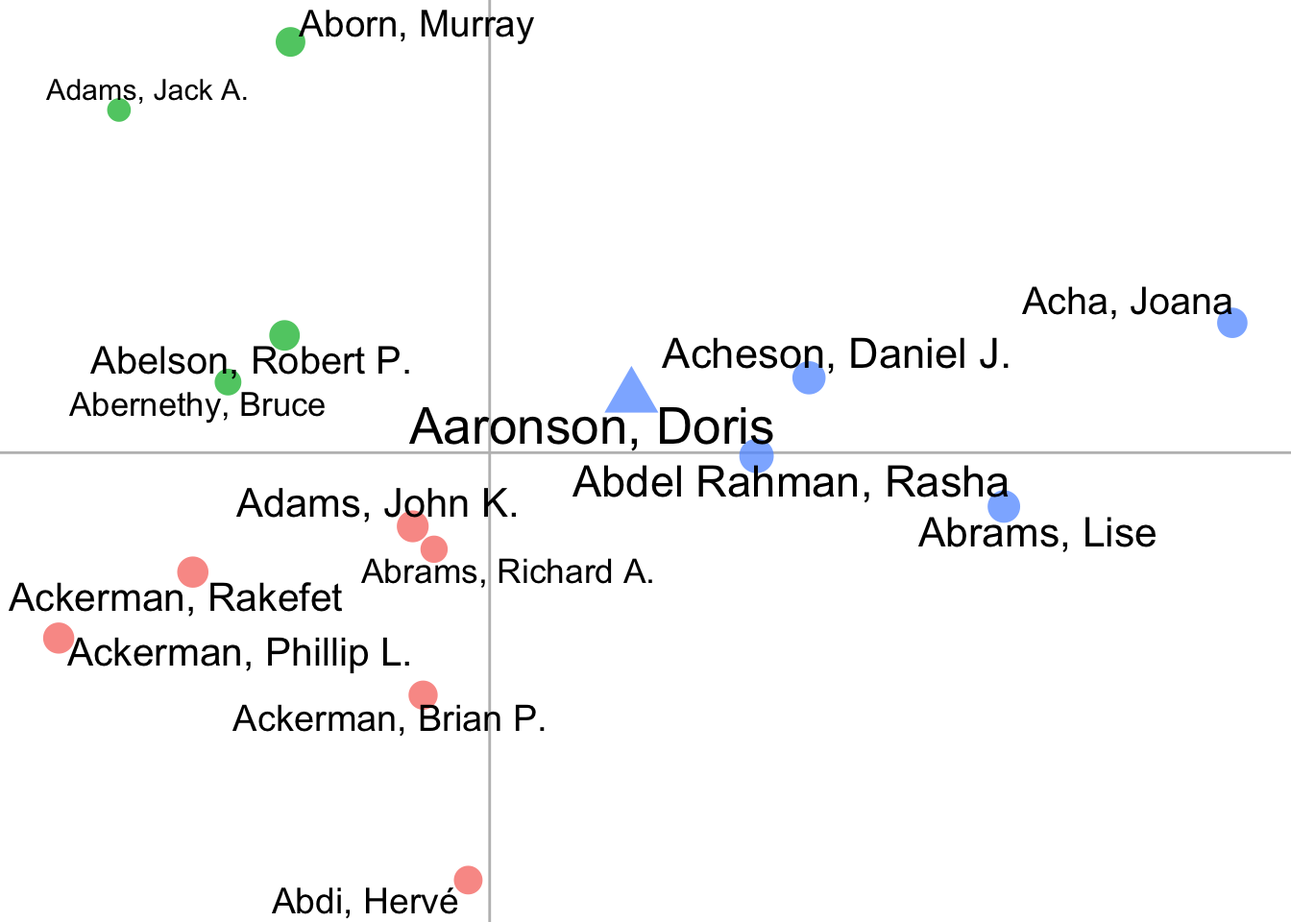
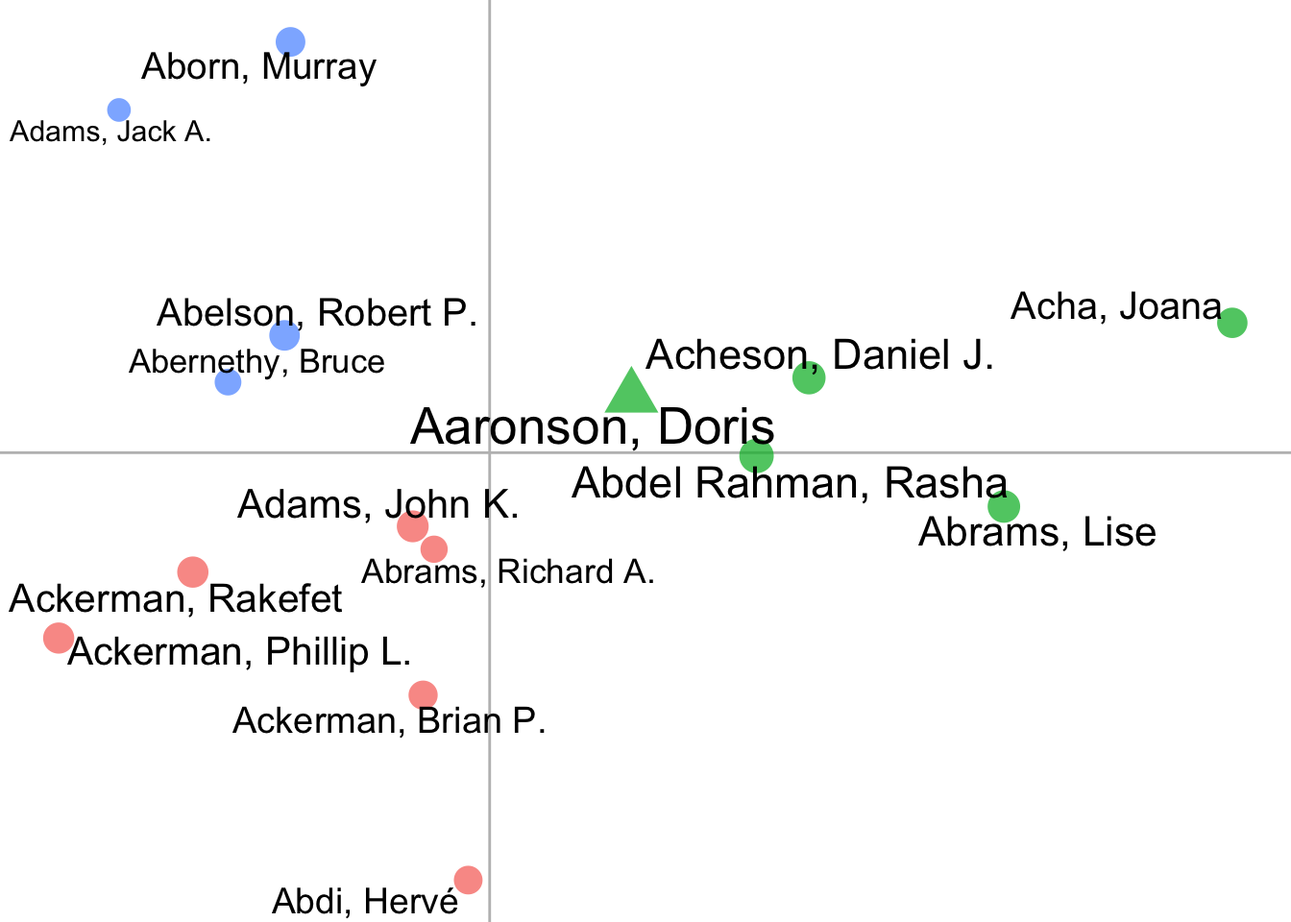
update ga

diff --git a/docs/articles/SL_bib.html b/docs/articles/SL_bib.html
@@ -16,7 +16,13 @@
 <!-- mathjax --><script src="https://cdnjs.cloudflare.com/ajax/libs/mathjax/2.7.5/MathJax.js" integrity="sha256-nvJJv9wWKEm88qvoQl9ekL2J+k/RWIsaSScxxlsrv8k=" crossorigin="anonymous"></script><script src="https://cdnjs.cloudflare.com/ajax/libs/mathjax/2.7.5/config/TeX-AMS-MML_HTMLorMML.js" integrity="sha256-84DKXVJXs0/F8OTMzX4UR909+jtl4G7SPypPavF+GfA=" crossorigin="anonymous"></script><!--[if lt IE 9]>
 <script src="https://oss.maxcdn.com/html5shiv/3.7.3/html5shiv.min.js"></script>
 <script src="https://oss.maxcdn.com/respond/1.4.2/respond.min.js"></script>
-<![endif]-->
+<![endif]--><!-- Global site tag (gtag.js) - Google Analytics --><script async src="https://www.googletagmanager.com/gtag/js?id=UA-79429674-10"></script><script>
+  window.dataLayer = window.dataLayer || [];
+  function gtag(){dataLayer.push(arguments);}
+  gtag('js', new Date());
+
+  gtag('config', 'UA-79429674-10');
+</script>
 </head>
 <body>
     <div class="container template-article">
@@ -220,8 +226,8 @@ physical environment.},
 <span id="cb3-14"><a href="#cb3-14"></a>        <span class="dt">text =</span> <span class="op">~</span>titles,</span>
 <span id="cb3-15"><a href="#cb3-15"></a>        <span class="dt">color=</span> <span class="op">~</span>cluster,</span>
 <span id="cb3-16"><a href="#cb3-16"></a>        <span class="dt">hoverinfo =</span> <span class="st">'text'</span>)</span></code></pre></div>
-<div id="htmlwidget-dea00602612cc3643a55" style="width:672px;height:480px;" class="plotly html-widget"></div>
-<script type="application/json" data-for="htmlwidget-dea00602612cc3643a55">{"x":{"visdat":{"d6817f5bb044":["function () ","plotlyVisDat"]},"cur_data":"d6817f5bb044","attrs":{"d6817f5bb044":{"x":{},"y":{},"mode":"markers","text":{},"hoverinfo":"text","color":{},"alpha_stroke":1,"sizes":[10,100],"spans":[1,20],"type":"scatter"}},"layout":{"margin":{"b":40,"l":60,"t":25,"r":10},"xaxis":{"domain":[0,1],"automargin":true,"title":"X1"},"yaxis":{"domain":[0,1],"automargin":true,"title":"X2"},"hovermode":"closest","showlegend":false,"legend":{"yanchor":"top","y":0.5}},"source":"A","config":{"showSendToCloud":false},"data":[{"x":[0.0056256063070213,-0.0416853946741717,0.0406329547614679,0.00546016724624718,0.0724450749370258,0.0337082176326179,0.0177441180870064,-0.0534680734060536,-0.00144758106642524,0.031655266382958,0.00342092831822562,0.0115094197171912,0.0227155308752295,-0.00952391911347652,0.136809931522606,0.027259553373874,0.0622881667754438,-0.0402252886908561,-0.0021751125153417,0.00876110956941,0.0939944455982549,-0.142828617195431,-0.0700995807508204,0.00418768612576241,0.000224074137358651,0.0248421428156037,-0.0597011015019625,-0.0571036116537762,0.147382743245291,-0.0431385562169826,-0.055946893125174,-0.0186149034218013,-0.0649487003994714,-0.0201803582437892,-0.0589766765415025,-0.102438861415635,0.0475442937216671,0.0442917987824092],"y":[-0.0115139149498264,0.0088731493010444,0.0128698382127585,-0.0434638725388175,0.0996429188502492,0.0614675242162563,-0.0384264439074529,0.0799018394457972,0.0515117482270635,-0.0212108934356631,0.0268186738462954,-0.0544685973127785,-0.0282622238146122,0.00157685850127212,0.025309176427991,-0.00298443014849624,0.0104077974427823,0.0209262483492696,-0.0437846908187953,-0.0524165441790041,0.0364192240389284,0.190990585480311,0.0121520447544101,-0.0306070454499438,0.00931837344353733,0.0251222207786959,-0.0157166889611149,-0.00950785018647446,0.0452361751158254,-0.0965414999502497,0.0106584867475318,-0.0600188655856212,-0.147006794129512,-0.0376161315481048,0.0484906046221541,-0.0175745431417395,0.00114691124703567,-0.0677193689910024],"mode":"markers","text":["Hierarchical Control of Cognitive Processes: The Case for Skilled Typewriting","Warning: This Keyboard Will Deconstruct— The Role of the Keyboard in Skilled Typewriting","Evaluating Amazon's Mechanical Turk as a Tool for Experimental Behavioral Research","Context-Specific Learning and Control: The Roles of Awareness, Task Relevance, and Relative Salience","False Recognition of Instruction-Set Lures","An Instance Theory of Associative Learning","In Support of a Distinction between Voluntary and Stimulus-Driven Control: A Review of the Literature on Proportion Congruent Effects","Cognitive Illusions of Authorship Reveal Hierarchical Error Detection in Skilled Typists","Do You Know Where Your Fingers Have Been? Explicit Knowledge of the Spatial Layout of the Keyboard in Skilled Typists","Contextual Control over Task-Set Retrieval","The Left Hand Doesn't Know What the Right Hand Is Doing: The Disruptive Effects of Attention to the Hands in Skilled Typewriting","The Flexibility of Context-Specific Control: Evidence for Context-Driven Generalization of Item-Specific Control Settings","Probe-Specific Proportion Task Repetition Effects on Switching Costs","Shifting Views on the Symbolic Cueing Effect: Cueing Attention through Recent Prior Experience","The Psychophysics of Contingency Assessment.","Contingency Learning without Awareness: Evidence for Implicit Control","Contingency Judgements on the Fly","The Dynamic Range of Response Set Activation during Action Sequencing.","Context-Specific Attentional Sampling: Intentional Control as a Pre-Requisite for Contextual Control","Reproducing the Location-Based Context-Specific Proportion Congruent Effect for Frequency Unbiased Items: A Reply to Hutcheon \\& Spieler (2016)","Applying Signal Detection Theory to Contingency Assessment","Prevention and Correction in Post-Error Performance: An Ounce of Prevention, a Pound of Cure","Crunching Big Data with Finger Tips: How Typists Tune Their Performance towards the Statistics of Natural Language","Learning to Selectively Attend From Context-Specific Attentional Histories: A Demonstration and Some Constraints","Speed–Accuracy Trade-off in Skilled Typewriting: Decomposing the Contributions of Hierarchical Control Loops","A Memory-Based Account of Retrospective Revaluation","Hierarchical Control and Skilled Typing: Evidence for Word-Level Control over the Execution of Individual Keystrokes","Episodic Contributions to Sequential Control: Learning from a Typist's Touch","Cue-Interaction Effects in Contingency Judgments Using the Streamed-Trial Procedure","Context-Dependent Control of Attention Capture: Evidence from Proportion Congruent Effects","Spatial Knowledge during Skilled Action Sequencing: Hierarchical versus Non-Hierarchical Representations","Keeping an Eye on Guitar Skill: Visual Representations of Guitar Chords","The Context-Specific Proportion Congruent Stroop Effect: Location as a Contextual Cue","Memory-Guided Selective Attention: Single Experiences with Conflict Have Long-Lasting Effects on Cognitive Control.","Parallel Regulation of Past, Present, and Future Actions During Sequencing","Instance Theory Predicts Information Theory: Episodic Uncertainty as a Determinant of Keystroke Dynamics","The Semantic Librarian: A Search Engine Built from Vector-Space Models of Semantics","Measuring Adaptive Control in Conflict Tasks"],"hoverinfo":["text","text","text","text","text","text","text","text","text","text","text","text","text","text","text","text","text","text","text","text","text","text","text","text","text","text","text","text","text","text","text","text","text","text","text","text","text","text"],"type":"scatter","marker":{"colorbar":{"title":"cluster","ticklen":2},"cmin":1,"cmax":3,"colorscale":[["0","rgba(68,1,84,1)"],["0.0416666666666666","rgba(70,19,97,1)"],["0.0833333333333334","rgba(72,32,111,1)"],["0.125","rgba(71,45,122,1)"],["0.166666666666667","rgba(68,58,128,1)"],["0.208333333333333","rgba(64,70,135,1)"],["0.25","rgba(60,82,138,1)"],["0.291666666666667","rgba(56,93,140,1)"],["0.333333333333333","rgba(49,104,142,1)"],["0.375","rgba(46,114,142,1)"],["0.416666666666667","rgba(42,123,142,1)"],["0.458333333333333","rgba(38,133,141,1)"],["0.5","rgba(37,144,140,1)"],["0.541666666666667","rgba(33,154,138,1)"],["0.583333333333333","rgba(39,164,133,1)"],["0.625","rgba(47,174,127,1)"],["0.666666666666667","rgba(53,183,121,1)"],["0.708333333333333","rgba(79,191,110,1)"],["0.75","rgba(98,199,98,1)"],["0.791666666666667","rgba(119,207,85,1)"],["0.833333333333333","rgba(147,214,70,1)"],["0.875","rgba(172,220,52,1)"],["0.916666666666667","rgba(199,225,42,1)"],["0.958333333333333","rgba(226,228,40,1)"],["1","rgba(253,231,37,1)"]],"showscale":false,"color":[3,1,2,3,2,2,3,1,1,3,1,3,3,3,2,3,2,1,3,3,2,1,1,3,3,2,1,1,2,3,1,3,3,3,1,1,2,3],"line":{"colorbar":{"title":"","ticklen":2},"cmin":1,"cmax":3,"colorscale":[["0","rgba(68,1,84,1)"],["0.0416666666666666","rgba(70,19,97,1)"],["0.0833333333333334","rgba(72,32,111,1)"],["0.125","rgba(71,45,122,1)"],["0.166666666666667","rgba(68,58,128,1)"],["0.208333333333333","rgba(64,70,135,1)"],["0.25","rgba(60,82,138,1)"],["0.291666666666667","rgba(56,93,140,1)"],["0.333333333333333","rgba(49,104,142,1)"],["0.375","rgba(46,114,142,1)"],["0.416666666666667","rgba(42,123,142,1)"],["0.458333333333333","rgba(38,133,141,1)"],["0.5","rgba(37,144,140,1)"],["0.541666666666667","rgba(33,154,138,1)"],["0.583333333333333","rgba(39,164,133,1)"],["0.625","rgba(47,174,127,1)"],["0.666666666666667","rgba(53,183,121,1)"],["0.708333333333333","rgba(79,191,110,1)"],["0.75","rgba(98,199,98,1)"],["0.791666666666667","rgba(119,207,85,1)"],["0.833333333333333","rgba(147,214,70,1)"],["0.875","rgba(172,220,52,1)"],["0.916666666666667","rgba(199,225,42,1)"],["0.958333333333333","rgba(226,228,40,1)"],["1","rgba(253,231,37,1)"]],"showscale":false,"color":[3,1,2,3,2,2,3,1,1,3,1,3,3,3,2,3,2,1,3,3,2,1,1,3,3,2,1,1,2,3,1,3,3,3,1,1,2,3]}},"xaxis":"x","yaxis":"y","frame":null},{"x":[-0.142828617195431,0.147382743245291],"y":[-0.147006794129512,0.190990585480311],"type":"scatter","mode":"markers","opacity":0,"hoverinfo":"none","showlegend":false,"marker":{"colorbar":{"title":"cluster","ticklen":2,"len":0.5,"lenmode":"fraction","y":1,"yanchor":"top"},"cmin":1,"cmax":3,"colorscale":[["0","rgba(68,1,84,1)"],["0.0416666666666666","rgba(70,19,97,1)"],["0.0833333333333334","rgba(72,32,111,1)"],["0.125","rgba(71,45,122,1)"],["0.166666666666667","rgba(68,58,128,1)"],["0.208333333333333","rgba(64,70,135,1)"],["0.25","rgba(60,82,138,1)"],["0.291666666666667","rgba(56,93,140,1)"],["0.333333333333333","rgba(49,104,142,1)"],["0.375","rgba(46,114,142,1)"],["0.416666666666667","rgba(42,123,142,1)"],["0.458333333333333","rgba(38,133,141,1)"],["0.5","rgba(37,144,140,1)"],["0.541666666666667","rgba(33,154,138,1)"],["0.583333333333333","rgba(39,164,133,1)"],["0.625","rgba(47,174,127,1)"],["0.666666666666667","rgba(53,183,121,1)"],["0.708333333333333","rgba(79,191,110,1)"],["0.75","rgba(98,199,98,1)"],["0.791666666666667","rgba(119,207,85,1)"],["0.833333333333333","rgba(147,214,70,1)"],["0.875","rgba(172,220,52,1)"],["0.916666666666667","rgba(199,225,42,1)"],["0.958333333333333","rgba(226,228,40,1)"],["1","rgba(253,231,37,1)"]],"showscale":true,"color":[1,3],"line":{"color":"rgba(255,127,14,1)"}},"xaxis":"x","yaxis":"y","frame":null}],"highlight":{"on":"plotly_click","persistent":false,"dynamic":false,"selectize":false,"opacityDim":0.2,"selected":{"opacity":1},"debounce":0},"shinyEvents":["plotly_hover","plotly_click","plotly_selected","plotly_relayout","plotly_brushed","plotly_brushing","plotly_clickannotation","plotly_doubleclick","plotly_deselect","plotly_afterplot"],"base_url":"https://plot.ly"},"evals":[],"jsHooks":[]}</script>
+<div id="htmlwidget-b2f5c63802fcd000fe46" style="width:672px;height:480px;" class="plotly html-widget"></div>
+<script type="application/json" data-for="htmlwidget-b2f5c63802fcd000fe46">{"x":{"visdat":{"1036246108506":["function () ","plotlyVisDat"]},"cur_data":"1036246108506","attrs":{"1036246108506":{"x":{},"y":{},"mode":"markers","text":{},"hoverinfo":"text","color":{},"alpha_stroke":1,"sizes":[10,100],"spans":[1,20],"type":"scatter"}},"layout":{"margin":{"b":40,"l":60,"t":25,"r":10},"xaxis":{"domain":[0,1],"automargin":true,"title":"X1"},"yaxis":{"domain":[0,1],"automargin":true,"title":"X2"},"hovermode":"closest","showlegend":false,"legend":{"yanchor":"top","y":0.5}},"source":"A","config":{"showSendToCloud":false},"data":[{"x":[0.0047790999627637,0.043781576568761,-0.0276477887584732,-0.0267590209058755,-0.0500404732816571,0.015419572074941,-0.0105412764644025,0.045546966814483,-0.000399626014933452,-0.0301326377216236,0.0162353965783473,-0.0355679463235359,-0.0253317917243152,-0.0291511525360344,-0.0919197555988605,-0.0297590641694161,-0.0597345702604798,0.0600407259856006,-0.0290014950536571,-0.0279432449198022,-0.0898858895126288,0.126275193799515,0.0817814746087089,-0.0117194191387207,0.00414221689497504,0.0181798873432181,0.10123479344041,0.0742092620279727,-0.0949911087413979,-0.00435520985480864,0.0719544251663978,0.0223801187792941,-0.0306752902643813,-0.00542681569352152,0.0658114712337942,0.112287523283938,-0.0760235088792929,-0.0770526187453018],"y":[0.0203802494338979,0.0333425679176749,-0.0261058327698295,0.0220250414020321,-0.00839992856102911,-0.138407252493785,0.0311899401920638,0.0332816392297204,0.0291235720158026,0.00878493557434181,-0.00641545875294882,0.0363288792084767,0.0164979372541601,0.0271971474512888,-0.0437674470659774,-0.00695786713860576,-0.026108485188489,-0.0465301284580146,0.0431902526613549,0.0416418318409194,-0.0684789806292923,0.0625036540841899,-0.0361083007023796,0.0154242355631594,0.00884542736908573,-0.1095531690809,-0.011007618930308,0.00841404180451204,-0.0199752664679525,0.0811911275941933,0.0473856260803071,-0.0396314070766412,0.0843919659875158,0.0324463729478804,-0.050925605973363,-0.046036980670465,-0.0445880804215743,0.0454113647689774],"mode":"markers","text":["Hierarchical Control of Cognitive Processes: The Case for Skilled Typewriting","Warning: This Keyboard Will Deconstruct— The Role of the Keyboard in Skilled Typewriting","Evaluating Amazon's Mechanical Turk as a Tool for Experimental Behavioral Research","Context-Specific Learning and Control: The Roles of Awareness, Task Relevance, and Relative Salience","False Recognition of Instruction-Set Lures","An Instance Theory of Associative Learning","In Support of a Distinction between Voluntary and Stimulus-Driven Control: A Review of the Literature on Proportion Congruent Effects","Cognitive Illusions of Authorship Reveal Hierarchical Error Detection in Skilled Typists","Do You Know Where Your Fingers Have Been? Explicit Knowledge of the Spatial Layout of the Keyboard in Skilled Typists","Contextual Control over Task-Set Retrieval","The Left Hand Doesn't Know What the Right Hand Is Doing: The Disruptive Effects of Attention to the Hands in Skilled Typewriting","The Flexibility of Context-Specific Control: Evidence for Context-Driven Generalization of Item-Specific Control Settings","Probe-Specific Proportion Task Repetition Effects on Switching Costs","Shifting Views on the Symbolic Cueing Effect: Cueing Attention through Recent Prior Experience","The Psychophysics of Contingency Assessment.","Contingency Learning without Awareness: Evidence for Implicit Control","Contingency Judgements on the Fly","The Dynamic Range of Response Set Activation during Action Sequencing.","Context-Specific Attentional Sampling: Intentional Control as a Pre-Requisite for Contextual Control","Reproducing the Location-Based Context-Specific Proportion Congruent Effect for Frequency Unbiased Items: A Reply to Hutcheon \\& Spieler (2016)","Applying Signal Detection Theory to Contingency Assessment","Prevention and Correction in Post-Error Performance: An Ounce of Prevention, a Pound of Cure","Crunching Big Data with Finger Tips: How Typists Tune Their Performance towards the Statistics of Natural Language","Learning to Selectively Attend From Context-Specific Attentional Histories: A Demonstration and Some Constraints","Speed–Accuracy Trade-off in Skilled Typewriting: Decomposing the Contributions of Hierarchical Control Loops","A Memory-Based Account of Retrospective Revaluation","Hierarchical Control and Skilled Typing: Evidence for Word-Level Control over the Execution of Individual Keystrokes","Episodic Contributions to Sequential Control: Learning from a Typist's Touch","Cue-Interaction Effects in Contingency Judgments Using the Streamed-Trial Procedure","Context-Dependent Control of Attention Capture: Evidence from Proportion Congruent Effects","Spatial Knowledge during Skilled Action Sequencing: Hierarchical versus Non-Hierarchical Representations","Keeping an Eye on Guitar Skill: Visual Representations of Guitar Chords","The Context-Specific Proportion Congruent Stroop Effect: Location as a Contextual Cue","Memory-Guided Selective Attention: Single Experiences with Conflict Have Long-Lasting Effects on Cognitive Control.","Parallel Regulation of Past, Present, and Future Actions During Sequencing","Instance Theory Predicts Information Theory: Episodic Uncertainty as a Determinant of Keystroke Dynamics","The Semantic Librarian: A Search Engine Built from Vector-Space Models of Semantics","Measuring Adaptive Control in Conflict Tasks"],"hoverinfo":["text","text","text","text","text","text","text","text","text","text","text","text","text","text","text","text","text","text","text","text","text","text","text","text","text","text","text","text","text","text","text","text","text","text","text","text","text","text"],"type":"scatter","marker":{"colorbar":{"title":"cluster","ticklen":2},"cmin":1,"cmax":3,"colorscale":[["0","rgba(68,1,84,1)"],["0.0416666666666666","rgba(70,19,97,1)"],["0.0833333333333334","rgba(72,32,111,1)"],["0.125","rgba(71,45,122,1)"],["0.166666666666667","rgba(68,58,128,1)"],["0.208333333333333","rgba(64,70,135,1)"],["0.25","rgba(60,82,138,1)"],["0.291666666666667","rgba(56,93,140,1)"],["0.333333333333333","rgba(49,104,142,1)"],["0.375","rgba(46,114,142,1)"],["0.416666666666667","rgba(42,123,142,1)"],["0.458333333333333","rgba(38,133,141,1)"],["0.5","rgba(37,144,140,1)"],["0.541666666666667","rgba(33,154,138,1)"],["0.583333333333333","rgba(39,164,133,1)"],["0.625","rgba(47,174,127,1)"],["0.666666666666667","rgba(53,183,121,1)"],["0.708333333333333","rgba(79,191,110,1)"],["0.75","rgba(98,199,98,1)"],["0.791666666666667","rgba(119,207,85,1)"],["0.833333333333333","rgba(147,214,70,1)"],["0.875","rgba(172,220,52,1)"],["0.916666666666667","rgba(199,225,42,1)"],["0.958333333333333","rgba(226,228,40,1)"],["1","rgba(253,231,37,1)"]],"showscale":false,"color":[2,1,2,2,2,3,2,1,2,2,2,2,2,2,2,2,2,3,2,2,2,1,3,2,2,3,1,1,2,2,1,3,2,2,3,3,2,2],"line":{"colorbar":{"title":"","ticklen":2},"cmin":1,"cmax":3,"colorscale":[["0","rgba(68,1,84,1)"],["0.0416666666666666","rgba(70,19,97,1)"],["0.0833333333333334","rgba(72,32,111,1)"],["0.125","rgba(71,45,122,1)"],["0.166666666666667","rgba(68,58,128,1)"],["0.208333333333333","rgba(64,70,135,1)"],["0.25","rgba(60,82,138,1)"],["0.291666666666667","rgba(56,93,140,1)"],["0.333333333333333","rgba(49,104,142,1)"],["0.375","rgba(46,114,142,1)"],["0.416666666666667","rgba(42,123,142,1)"],["0.458333333333333","rgba(38,133,141,1)"],["0.5","rgba(37,144,140,1)"],["0.541666666666667","rgba(33,154,138,1)"],["0.583333333333333","rgba(39,164,133,1)"],["0.625","rgba(47,174,127,1)"],["0.666666666666667","rgba(53,183,121,1)"],["0.708333333333333","rgba(79,191,110,1)"],["0.75","rgba(98,199,98,1)"],["0.791666666666667","rgba(119,207,85,1)"],["0.833333333333333","rgba(147,214,70,1)"],["0.875","rgba(172,220,52,1)"],["0.916666666666667","rgba(199,225,42,1)"],["0.958333333333333","rgba(226,228,40,1)"],["1","rgba(253,231,37,1)"]],"showscale":false,"color":[2,1,2,2,2,3,2,1,2,2,2,2,2,2,2,2,2,3,2,2,2,1,3,2,2,3,1,1,2,2,1,3,2,2,3,3,2,2]}},"xaxis":"x","yaxis":"y","frame":null},{"x":[-0.0949911087413979,0.126275193799515],"y":[-0.138407252493785,0.0843919659875158],"type":"scatter","mode":"markers","opacity":0,"hoverinfo":"none","showlegend":false,"marker":{"colorbar":{"title":"cluster","ticklen":2,"len":0.5,"lenmode":"fraction","y":1,"yanchor":"top"},"cmin":1,"cmax":3,"colorscale":[["0","rgba(68,1,84,1)"],["0.0416666666666666","rgba(70,19,97,1)"],["0.0833333333333334","rgba(72,32,111,1)"],["0.125","rgba(71,45,122,1)"],["0.166666666666667","rgba(68,58,128,1)"],["0.208333333333333","rgba(64,70,135,1)"],["0.25","rgba(60,82,138,1)"],["0.291666666666667","rgba(56,93,140,1)"],["0.333333333333333","rgba(49,104,142,1)"],["0.375","rgba(46,114,142,1)"],["0.416666666666667","rgba(42,123,142,1)"],["0.458333333333333","rgba(38,133,141,1)"],["0.5","rgba(37,144,140,1)"],["0.541666666666667","rgba(33,154,138,1)"],["0.583333333333333","rgba(39,164,133,1)"],["0.625","rgba(47,174,127,1)"],["0.666666666666667","rgba(53,183,121,1)"],["0.708333333333333","rgba(79,191,110,1)"],["0.75","rgba(98,199,98,1)"],["0.791666666666667","rgba(119,207,85,1)"],["0.833333333333333","rgba(147,214,70,1)"],["0.875","rgba(172,220,52,1)"],["0.916666666666667","rgba(199,225,42,1)"],["0.958333333333333","rgba(226,228,40,1)"],["1","rgba(253,231,37,1)"]],"showscale":true,"color":[1,3],"line":{"color":"rgba(255,127,14,1)"}},"xaxis":"x","yaxis":"y","frame":null}],"highlight":{"on":"plotly_click","persistent":false,"dynamic":false,"selectize":false,"opacityDim":0.2,"selected":{"opacity":1},"debounce":0},"shinyEvents":["plotly_hover","plotly_click","plotly_selected","plotly_relayout","plotly_brushed","plotly_brushing","plotly_clickannotation","plotly_doubleclick","plotly_deselect","plotly_afterplot"],"base_url":"https://plot.ly"},"evals":[],"jsHooks":[]}</script>
 </div>
   </div>
 

diff --git a/docs/articles/Semantic_Librarian_Tutorial.html b/docs/articles/Semantic_Librarian_Tutorial.html
@@ -16,7 +16,13 @@
 <!-- mathjax --><script src="https://cdnjs.cloudflare.com/ajax/libs/mathjax/2.7.5/MathJax.js" integrity="sha256-nvJJv9wWKEm88qvoQl9ekL2J+k/RWIsaSScxxlsrv8k=" crossorigin="anonymous"></script><script src="https://cdnjs.cloudflare.com/ajax/libs/mathjax/2.7.5/config/TeX-AMS-MML_HTMLorMML.js" integrity="sha256-84DKXVJXs0/F8OTMzX4UR909+jtl4G7SPypPavF+GfA=" crossorigin="anonymous"></script><!--[if lt IE 9]>
 <script src="https://oss.maxcdn.com/html5shiv/3.7.3/html5shiv.min.js"></script>
 <script src="https://oss.maxcdn.com/respond/1.4.2/respond.min.js"></script>
-<![endif]-->
+<![endif]--><!-- Global site tag (gtag.js) - Google Analytics --><script async src="https://www.googletagmanager.com/gtag/js?id=UA-79429674-10"></script><script>
+  window.dataLayer = window.dataLayer || [];
+  function gtag(){dataLayer.push(arguments);}
+  gtag('js', new Date());
+
+  gtag('config', 'UA-79429674-10');
+</script>
 </head>
 <body>
     <div class="container template-article">
@@ -397,8 +403,8 @@ Canadian Psychology—Past, Present And Future.
 <span id="cb7-27"><a href="#cb7-27"></a></span>
 <span id="cb7-28"><a href="#cb7-28"></a>p<span class="op">$</span>elementId &lt;-<span class="st"> </span><span class="ot">NULL</span></span>
 <span id="cb7-29"><a href="#cb7-29"></a>p</span></code></pre></div>
-<div id="htmlwidget-b4848090576caf1aac2f" style="width:672px;height:480px;" class="plotly html-widget"></div>
-<script type="application/json" data-for="htmlwidget-b4848090576caf1aac2f">{"x":{"data":[{"x":[-0.0921222864780044,0.115523192132061],"y":[0,0],"text":"","type":"scatter","mode":"lines","line":{"width":1.88976377952756,"color":"rgba(190,190,190,1)","dash":"solid"},"hoveron":"points","showlegend":false,"xaxis":"x","yaxis":"y","hoverinfo":"text","frame":null},{"x":[0,0],"y":[-0.0975813605432416,0.0481282527745414],"text":"","type":"scatter","mode":"lines","line":{"width":1.88976377952756,"color":"rgba(190,190,190,1)","dash":"solid"},"hoveron":"points","showlegend":false,"xaxis":"x","yaxis":"y","hoverinfo":"text","frame":null},{"x":[0.0784950943799206,0.081255153704775],"y":[-0.0430728157395731,-0.0756250539943915],"text":["Membership List, September 1947.","Constitution Of The Canadian Psychological <br> Association."],"type":"scatter","mode":"markers","marker":{"autocolorscale":false,"color":"rgba(248,118,109,1)","opacity":0.75,"size":[12.9896859042534,11.5278492304049],"symbol":"circle","line":{"width":1.88976377952756,"color":"rgba(248,118,109,1)"}},"hoveron":"points","name":"1","legendgroup":"1","showlegend":true,"xaxis":"x","yaxis":"y","hoverinfo":"text","frame":null},{"x":[0.0266504880418015,0.0557818207981345,0.0462031915346538,0.0650435123698366,0.0175999223984266,0.106084761286149],"y":[-0.00372873145721697,0.0230145571888746,0.00356598120556169,0.0265588105964431,0.00845641606281418,0.0187327731072747],"text":["Professor Chester E. Kellogg.","Maritime Psychological Association.","The Certification Of Psychologists In Canada.","Proceedings Of The Annual Meeting Of The <br> Psychological Association Of The Province Of <br> Quebec.","National Research Council Associate Committee On <br> Applied Psychology.","Ontario Psychological Association."],"type":"scatter","mode":"markers","marker":{"autocolorscale":false,"color":"rgba(0,186,56,1)","opacity":0.75,"size":[19.5691685394452,18.6674457595874,17.1833585479178,17.1704234993976,14.8656797290693,11.331744145034],"symbol":"circle","line":{"width":1.88976377952756,"color":"rgba(0,186,56,1)"}},"hoveron":"points","name":"2","legendgroup":"2","showlegend":true,"xaxis":"x","yaxis":"y","hoverinfo":"text","frame":null},{"x":[-0.00339339822101564,-0.0425499174626218,-0.0198591341998206,0.00223981063665862,-0.00937859414036249,-0.0576364822314851,-0.0230708288538364,-0.0149771879917453,-0.0250235882022031,-0.0315596617891702,0.000917537098836536,-0.0826838556320923,-0.0318497277589596,-0.0302545959187609,-0.0160955193202311,-0.0219344961131087,-0.0700043044137797],"y":[-0.0489419510901279,0.0182195469749932,-0.0347300450159274,-0.0041345512015812,0.0263465228801496,0.0367619152193141,0.00852325314736451,-0.00730795086478587,0.0313265456996133,0.0263692206218992,0.041505088532824,-0.0506036912533926,0.0151418737156925,0.032547177664207,0.0189060477416081,0.0231272565598869,-0.0909581963015242],"text":["Foreword By The President.","The Teaching Of Psychology In Canadian <br> Universities.","Research Planning In The Canadian Psychological <br> Association. I. Report On Experimental, <br> Physiological, And Comparative Psychology.","Canadian Psychology—Past, Present And Future.","The First Course In Psychology In Canadian <br> Universities.","Psychology From The Standpoint Of A Psychiatrist.","Review Of Physiological Psychology.","Psychology And The Canadian Social Science <br> Research Council.","The Interdisciplinary Approach To Training In The <br> Clinical Fields Of Psychology.","Review Of Psychology (5Th Ed.).","A Progress Report On Industrial Psychology.","Canadian Theses In Psychology, 1948.","Research Objectives For Social Psychology.","Review Of Training In Clinical Psychology: <br> Transactions Of The First Conference, March <br> 27-28, 1947.","Research Planning In The Canadian Psychological <br> Association. Ii. Report On Social Psychology.","Research Planning In Clinical Psychology.","Statement Of Editorial Policy."],"type":"scatter","mode":"markers","marker":{"autocolorscale":false,"color":"rgba(97,156,255,1)","opacity":0.75,"size":[22.6771653543307,20.3823935045165,19.1762741359858,17.875737984663,16.1441296510881,16.0911529997773,15.9353340270169,15.9260608012945,15.808267283409,14.8628970245544,14.1678120875846,12.8496459231062,12.623214243297,11.8853206433419,11.8176932091303,9.3325421614337,3.77952755905512],"symbol":"circle","line":{"width":1.88976377952756,"color":"rgba(97,156,255,1)"}},"hoveron":"points","name":"3","legendgroup":"3","showlegend":true,"xaxis":"x","yaxis":"y","hoverinfo":"text","frame":null}],"layout":{"margin":{"t":16,"r":0,"b":0,"l":0},"font":{"color":"rgba(0,0,0,1)","family":"","size":14.6118721461187},"xaxis":{"domain":[0,1],"automargin":true,"type":"linear","autorange":false,"range":[-0.0921222864780044,0.115523192132061],"tickmode":"array","ticktext":["-0.05","0.00","0.05","0.10"],"tickvals":[-0.05,0,0.05,0.1],"categoryorder":"array","categoryarray":["-0.05","0.00","0.05","0.10"],"nticks":null,"ticks":"outside","tickcolor":null,"ticklen":0,"tickwidth":0,"showticklabels":false,"tickfont":{"color":null,"family":null,"size":0},"tickangle":-0,"showline":false,"linecolor":null,"linewidth":0,"showgrid":false,"gridcolor":null,"gridwidth":0,"zeroline":true,"anchor":"y","title":"","hoverformat":".2f","fixedrange":true},"yaxis":{"domain":[0,1],"automargin":true,"type":"linear","autorange":false,"range":[-0.0975813605432416,0.0481282527745414],"tickmode":"array","ticktext":["-0.05","0.00"],"tickvals":[-0.05,0],"categoryorder":"array","categoryarray":["-0.05","0.00"],"nticks":null,"ticks":"outside","tickcolor":null,"ticklen":0,"tickwidth":0,"showticklabels":false,"tickfont":{"color":null,"family":null,"size":0},"tickangle":-0,"showline":false,"linecolor":null,"linewidth":0,"showgrid":false,"gridcolor":null,"gridwidth":0,"zeroline":true,"anchor":"x","title":"","hoverformat":".2f","fixedrange":true},"shapes":[{"type":"rect","fillcolor":null,"line":{"color":null,"width":0,"linetype":[]},"yref":"paper","xref":"paper","x0":0,"x1":1,"y0":0,"y1":1}],"showlegend":false,"legend":{"bgcolor":null,"bordercolor":null,"borderwidth":0,"font":{"color":"rgba(0,0,0,1)","family":"","size":11.689497716895}},"hovermode":"closest","barmode":"relative"},"config":{"doubleClick":"reset","showSendToCloud":false,"displayModeBar":false},"source":"article_SS_plot","attrs":{"d69f7b7d2315":{"yintercept":{},"type":"scatter"},"d69f548a7709":{"xintercept":{}},"d69f4e8d1b3b":{"size":{},"x":{},"y":{},"colour":{},"text":{}}},"cur_data":"d69f7b7d2315","visdat":{"d69f7b7d2315":["function (y) ","x"],"d69f548a7709":["function (y) ","x"],"d69f4e8d1b3b":["function (y) ","x"]},"highlight":{"on":"plotly_click","persistent":false,"dynamic":false,"selectize":false,"opacityDim":0.2,"selected":{"opacity":1},"debounce":0},"shinyEvents":["plotly_hover","plotly_click","plotly_selected","plotly_relayout","plotly_brushed","plotly_brushing","plotly_clickannotation","plotly_doubleclick","plotly_deselect","plotly_afterplot"],"base_url":"https://plot.ly"},"evals":[],"jsHooks":[]}</script>
+<div id="htmlwidget-1182627891103991757a" style="width:672px;height:480px;" class="plotly html-widget"></div>
+<script type="application/json" data-for="htmlwidget-1182627891103991757a">{"x":{"data":[{"x":[-0.0921222864780044,0.115523192132061],"y":[0,0],"text":"","type":"scatter","mode":"lines","line":{"width":1.88976377952756,"color":"rgba(190,190,190,1)","dash":"solid"},"hoveron":"points","showlegend":false,"xaxis":"x","yaxis":"y","hoverinfo":"text","frame":null},{"x":[0,0],"y":[-0.0975813605432416,0.0481282527745414],"text":"","type":"scatter","mode":"lines","line":{"width":1.88976377952756,"color":"rgba(190,190,190,1)","dash":"solid"},"hoveron":"points","showlegend":false,"xaxis":"x","yaxis":"y","hoverinfo":"text","frame":null},{"x":[0.0266504880418015,0.0557818207981345,0.0462031915346538,0.0650435123698366,0.0784950943799206,0.081255153704775,0.106084761286149],"y":[-0.00372873145721697,0.0230145571888746,0.00356598120556169,0.0265588105964431,-0.0430728157395731,-0.0756250539943915,0.0187327731072747],"text":["Professor Chester E. Kellogg.","Maritime Psychological Association.","The Certification Of Psychologists In Canada.","Proceedings Of The Annual Meeting Of The <br> Psychological Association Of The Province Of <br> Quebec.","Membership List, September 1947.","Constitution Of The Canadian Psychological <br> Association.","Ontario Psychological Association."],"type":"scatter","mode":"markers","marker":{"autocolorscale":false,"color":"rgba(248,118,109,1)","opacity":0.75,"size":[19.5691685394452,18.6674457595874,17.1833585479178,17.1704234993976,12.9896859042534,11.5278492304049,11.331744145034],"symbol":"circle","line":{"width":1.88976377952756,"color":"rgba(248,118,109,1)"}},"hoveron":"points","name":"1","legendgroup":"1","showlegend":true,"xaxis":"x","yaxis":"y","hoverinfo":"text","frame":null},{"x":[-0.00339339822101564,-0.0198591341998206,-0.0826838556320923,-0.0700043044137797],"y":[-0.0489419510901279,-0.0347300450159274,-0.0506036912533926,-0.0909581963015242],"text":["Foreword By The President.","Research Planning In The Canadian Psychological <br> Association. I. Report On Experimental, <br> Physiological, And Comparative Psychology.","Canadian Theses In Psychology, 1948.","Statement Of Editorial Policy."],"type":"scatter","mode":"markers","marker":{"autocolorscale":false,"color":"rgba(0,186,56,1)","opacity":0.75,"size":[22.6771653543307,19.1762741359858,12.8496459231062,3.77952755905512],"symbol":"circle","line":{"width":1.88976377952756,"color":"rgba(0,186,56,1)"}},"hoveron":"points","name":"2","legendgroup":"2","showlegend":true,"xaxis":"x","yaxis":"y","hoverinfo":"text","frame":null},{"x":[-0.0425499174626218,0.00223981063665862,-0.00937859414036249,-0.0576364822314851,-0.0230708288538364,-0.0149771879917453,-0.0250235882022031,0.0175999223984266,-0.0315596617891702,0.000917537098836536,-0.0318497277589596,-0.0302545959187609,-0.0160955193202311,-0.0219344961131087],"y":[0.0182195469749932,-0.0041345512015812,0.0263465228801496,0.0367619152193141,0.00852325314736451,-0.00730795086478587,0.0313265456996133,0.00845641606281418,0.0263692206218992,0.041505088532824,0.0151418737156925,0.032547177664207,0.0189060477416081,0.0231272565598869],"text":["The Teaching Of Psychology In Canadian <br> Universities.","Canadian Psychology—Past, Present And Future.","The First Course In Psychology In Canadian <br> Universities.","Psychology From The Standpoint Of A Psychiatrist.","Review Of Physiological Psychology.","Psychology And The Canadian Social Science <br> Research Council.","The Interdisciplinary Approach To Training In The <br> Clinical Fields Of Psychology.","National Research Council Associate Committee On <br> Applied Psychology.","Review Of Psychology (5Th Ed.).","A Progress Report On Industrial Psychology.","Research Objectives For Social Psychology.","Review Of Training In Clinical Psychology: <br> Transactions Of The First Conference, March <br> 27-28, 1947.","Research Planning In The Canadian Psychological <br> Association. Ii. Report On Social Psychology.","Research Planning In Clinical Psychology."],"type":"scatter","mode":"markers","marker":{"autocolorscale":false,"color":"rgba(97,156,255,1)","opacity":0.75,"size":[20.3823935045165,17.875737984663,16.1441296510881,16.0911529997773,15.9353340270169,15.9260608012945,15.808267283409,14.8656797290693,14.8628970245544,14.1678120875846,12.623214243297,11.8853206433419,11.8176932091303,9.3325421614337],"symbol":"circle","line":{"width":1.88976377952756,"color":"rgba(97,156,255,1)"}},"hoveron":"points","name":"3","legendgroup":"3","showlegend":true,"xaxis":"x","yaxis":"y","hoverinfo":"text","frame":null}],"layout":{"margin":{"t":16,"r":0,"b":0,"l":0},"font":{"color":"rgba(0,0,0,1)","family":"","size":14.6118721461187},"xaxis":{"domain":[0,1],"automargin":true,"type":"linear","autorange":false,"range":[-0.0921222864780044,0.115523192132061],"tickmode":"array","ticktext":["-0.05","0.00","0.05","0.10"],"tickvals":[-0.05,0,0.05,0.1],"categoryorder":"array","categoryarray":["-0.05","0.00","0.05","0.10"],"nticks":null,"ticks":"outside","tickcolor":null,"ticklen":0,"tickwidth":0,"showticklabels":false,"tickfont":{"color":null,"family":null,"size":0},"tickangle":-0,"showline":false,"linecolor":null,"linewidth":0,"showgrid":false,"gridcolor":null,"gridwidth":0,"zeroline":true,"anchor":"y","title":"","hoverformat":".2f","fixedrange":true},"yaxis":{"domain":[0,1],"automargin":true,"type":"linear","autorange":false,"range":[-0.0975813605432416,0.0481282527745414],"tickmode":"array","ticktext":["-0.05","0.00"],"tickvals":[-0.05,0],"categoryorder":"array","categoryarray":["-0.05","0.00"],"nticks":null,"ticks":"outside","tickcolor":null,"ticklen":0,"tickwidth":0,"showticklabels":false,"tickfont":{"color":null,"family":null,"size":0},"tickangle":-0,"showline":false,"linecolor":null,"linewidth":0,"showgrid":false,"gridcolor":null,"gridwidth":0,"zeroline":true,"anchor":"x","title":"","hoverformat":".2f","fixedrange":true},"shapes":[{"type":"rect","fillcolor":null,"line":{"color":null,"width":0,"linetype":[]},"yref":"paper","xref":"paper","x0":0,"x1":1,"y0":0,"y1":1}],"showlegend":false,"legend":{"bgcolor":null,"bordercolor":null,"borderwidth":0,"font":{"color":"rgba(0,0,0,1)","family":"","size":11.689497716895}},"hovermode":"closest","barmode":"relative"},"config":{"doubleClick":"reset","showSendToCloud":false,"displayModeBar":false},"source":"article_SS_plot","attrs":{"1037f33abe9a1":{"yintercept":{},"type":"scatter"},"1037f5b776387":{"xintercept":{}},"1037f7b2762fa":{"size":{},"x":{},"y":{},"colour":{},"text":{}}},"cur_data":"1037f33abe9a1","visdat":{"1037f33abe9a1":["function (y) ","x"],"1037f5b776387":["function (y) ","x"],"1037f7b2762fa":["function (y) ","x"]},"highlight":{"on":"plotly_click","persistent":false,"dynamic":false,"selectize":false,"opacityDim":0.2,"selected":{"opacity":1},"debounce":0},"shinyEvents":["plotly_hover","plotly_click","plotly_selected","plotly_relayout","plotly_brushed","plotly_brushing","plotly_clickannotation","plotly_doubleclick","plotly_deselect","plotly_afterplot"],"base_url":"https://plot.ly"},"evals":[],"jsHooks":[]}</script>
 </div>
 </div>
 <div id="abstract-similarity" class="section level2">

diff --git a/docs/articles/Alice.html b/docs/articles/Alice.html
@@ -16,7 +16,13 @@
 <!-- mathjax --><script src="https://cdnjs.cloudflare.com/ajax/libs/mathjax/2.7.5/MathJax.js" integrity="sha256-nvJJv9wWKEm88qvoQl9ekL2J+k/RWIsaSScxxlsrv8k=" crossorigin="anonymous"></script><script src="https://cdnjs.cloudflare.com/ajax/libs/mathjax/2.7.5/config/TeX-AMS-MML_HTMLorMML.js" integrity="sha256-84DKXVJXs0/F8OTMzX4UR909+jtl4G7SPypPavF+GfA=" crossorigin="anonymous"></script><!--[if lt IE 9]>
 <script src="https://oss.maxcdn.com/html5shiv/3.7.3/html5shiv.min.js"></script>
 <script src="https://oss.maxcdn.com/respond/1.4.2/respond.min.js"></script>
-<![endif]-->
+<![endif]--><!-- Global site tag (gtag.js) - Google Analytics --><script async src="https://www.googletagmanager.com/gtag/js?id=UA-79429674-10"></script><script>
+  window.dataLayer = window.dataLayer || [];
+  function gtag(){dataLayer.push(arguments);}
+  gtag('js', new Date());
+
+  gtag('config', 'UA-79429674-10');
+</script>
 </head>
 <body>
     <div class="container template-article">

diff --git a/docs/index.html b/docs/index.html
@@ -16,7 +16,13 @@
 <!-- mathjax --><script src="https://cdnjs.cloudflare.com/ajax/libs/mathjax/2.7.5/MathJax.js" integrity="sha256-nvJJv9wWKEm88qvoQl9ekL2J+k/RWIsaSScxxlsrv8k=" crossorigin="anonymous"></script><script src="https://cdnjs.cloudflare.com/ajax/libs/mathjax/2.7.5/config/TeX-AMS-MML_HTMLorMML.js" integrity="sha256-84DKXVJXs0/F8OTMzX4UR909+jtl4G7SPypPavF+GfA=" crossorigin="anonymous"></script><!--[if lt IE 9]>
 <script src="https://oss.maxcdn.com/html5shiv/3.7.3/html5shiv.min.js"></script>
 <script src="https://oss.maxcdn.com/respond/1.4.2/respond.min.js"></script>
-<![endif]-->
+<![endif]--><!-- Global site tag (gtag.js) - Google Analytics --><script async src="https://www.googletagmanager.com/gtag/js?id=UA-79429674-10"></script><script>
+  window.dataLayer = window.dataLayer || [];
+  function gtag(){dataLayer.push(arguments);}
+  gtag('js', new Date());
+
+  gtag('config', 'UA-79429674-10');
+</script>
 </head>
 <body>
     <div class="container template-home">

diff --git a/docs/News.html b/docs/News.html
@@ -47,6 +47,16 @@
 <![endif]-->
 
 
+<!-- Global site tag (gtag.js) - Google Analytics -->
+<script async src="https://www.googletagmanager.com/gtag/js?id=UA-79429674-10"></script>
+<script>
+  window.dataLayer = window.dataLayer || [];
+  function gtag(){dataLayer.push(arguments);}
+  gtag('js', new Date());
+
+  gtag('config', 'UA-79429674-10');
+</script>
+
   </head>
 
   <body>

diff --git a/docs/articles/index.html b/docs/articles/index.html
@@ -47,6 +47,16 @@
 <![endif]-->
 
 
+<!-- Global site tag (gtag.js) - Google Analytics -->
+<script async src="https://www.googletagmanager.com/gtag/js?id=UA-79429674-10"></script>
+<script>
+  window.dataLayer = window.dataLayer || [];
+  function gtag(){dataLayer.push(arguments);}
+  gtag('js', new Date());
+
+  gtag('config', 'UA-79429674-10');
+</script>
+
   </head>
 
   <body>

diff --git a/docs/authors.html b/docs/authors.html
@@ -47,6 +47,16 @@
 <![endif]-->
 
 
+<!-- Global site tag (gtag.js) - Google Analytics -->
+<script async src="https://www.googletagmanager.com/gtag/js?id=UA-79429674-10"></script>
+<script>
+  window.dataLayer = window.dataLayer || [];
+  function gtag(){dataLayer.push(arguments);}
+  gtag('js', new Date());
+
+  gtag('config', 'UA-79429674-10');
+</script>
+
   </head>
 
   <body>

diff --git a/docs/news/index.html b/docs/news/index.html
@@ -47,6 +47,16 @@
 <![endif]-->
 
 
+<!-- Global site tag (gtag.js) - Google Analytics -->
+<script async src="https://www.googletagmanager.com/gtag/js?id=UA-79429674-10"></script>
+<script>
+  window.dataLayer = window.dataLayer || [];
+  function gtag(){dataLayer.push(arguments);}
+  gtag('js', new Date());
+
+  gtag('config', 'UA-79429674-10');
+</script>
+
   </head>
 
   <body>

diff --git a/docs/reference/RsemanticLibrarian-package.html b/docs/reference/RsemanticLibrarian-package.html
@@ -50,6 +50,16 @@
 <![endif]-->
 
 
+<!-- Global site tag (gtag.js) - Google Analytics -->
+<script async src="https://www.googletagmanager.com/gtag/js?id=UA-79429674-10"></script>
+<script>
+  window.dataLayer = window.dataLayer || [];
+  function gtag(){dataLayer.push(arguments);}
+  gtag('js', new Date());
+
+  gtag('config', 'UA-79429674-10');
+</script>
+
   </head>
 
   <body>

diff --git a/docs/reference/cosine_x_to_m.html b/docs/reference/cosine_x_to_m.html
@@ -49,6 +49,16 @@
 <![endif]-->
 
 
+<!-- Global site tag (gtag.js) - Google Analytics -->
+<script async src="https://www.googletagmanager.com/gtag/js?id=UA-79429674-10"></script>
+<script>
+  window.dataLayer = window.dataLayer || [];
+  function gtag(){dataLayer.push(arguments);}
+  gtag('js', new Date());
+
+  gtag('config', 'UA-79429674-10');
+</script>
+
   </head>
 
   <body>

diff --git a/docs/reference/get_article_article_similarities.html b/docs/reference/get_article_article_similarities.html
@@ -49,6 +49,16 @@
 <![endif]-->
 
 
+<!-- Global site tag (gtag.js) - Google Analytics -->
+<script async src="https://www.googletagmanager.com/gtag/js?id=UA-79429674-10"></script>
+<script>
+  window.dataLayer = window.dataLayer || [];
+  function gtag(){dataLayer.push(arguments);}
+  gtag('js', new Date());
+
+  gtag('config', 'UA-79429674-10');
+</script>
+
   </head>
 
   <body>

diff --git a/docs/reference/get_author_similarities.html b/docs/reference/get_author_similarities.html
@@ -49,6 +49,16 @@
 <![endif]-->
 
 
+<!-- Global site tag (gtag.js) - Google Analytics -->
+<script async src="https://www.googletagmanager.com/gtag/js?id=UA-79429674-10"></script>
+<script>
+  window.dataLayer = window.dataLayer || [];
+  function gtag(){dataLayer.push(arguments);}
+  gtag('js', new Date());
+
+  gtag('config', 'UA-79429674-10');
+</script>
+
   </head>
 
   <body>
